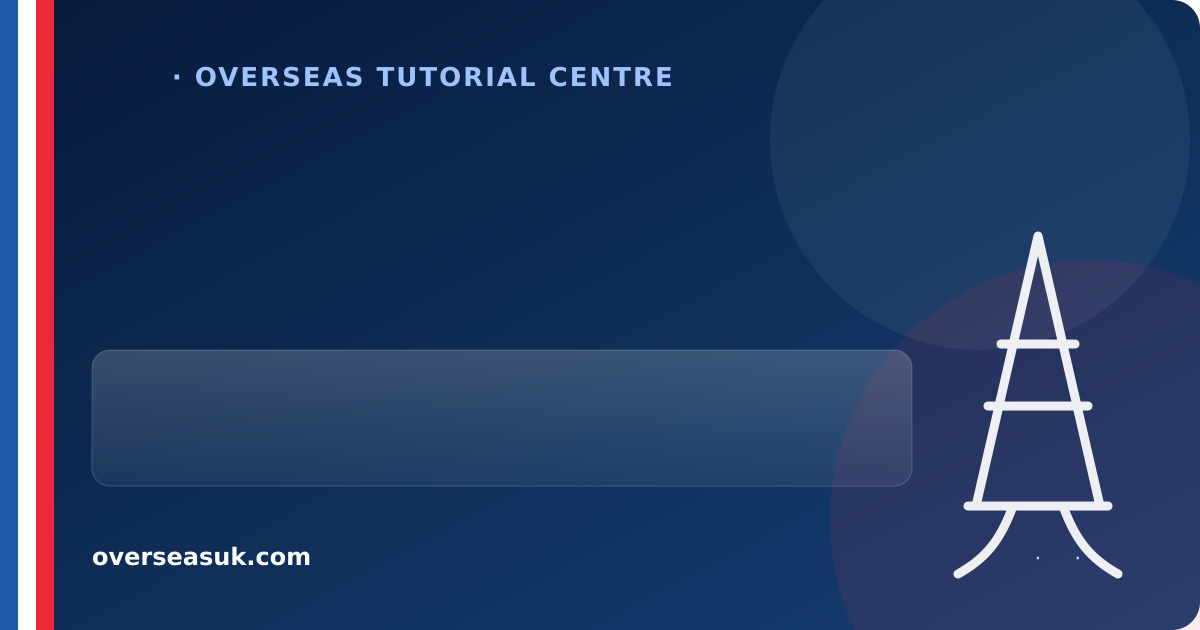
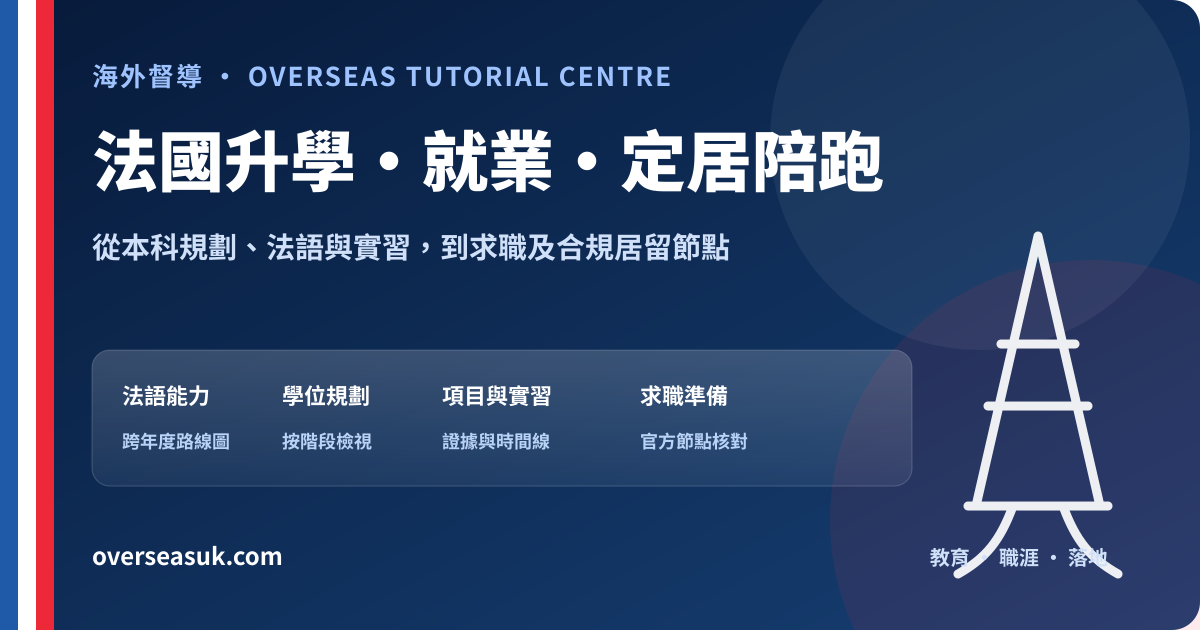
Fix France service cover and card layout

diff --git a/france-study-work-settlement-support/index.html b/france-study-work-settlement-support/index.html
@@ -81,8 +81,8 @@
 <section class="page-hero services-hero"><div class="band"><div class="service-hero-layout"><div><div class="eyebrow">OTC FRANCE · MULTI-YEAR PLANNING DESK</div><h1>France Study, Employment & Settlement Support</h1><h2>Education · Career · Compliant Landing</h2><p class="hero-sub">One staged route linking undergraduate study, French, postgraduate planning, internships, employment preparation and official residence checkpoints.</p></div><aside class="service-hero-panel"><a href="#route"><strong>Four-stage route</strong><span>From foundations to landing</span></a><a href="#process"><strong>Working process</strong><span>Assess, map, execute and review</span></a><a href="#scope"><strong>Scope and fees</strong><span>Confirmed in writing first</span></a><a href="#start"><strong>Start assessment</strong><span>Five background points</span></a></aside></div></div></section>
 <section class="band service-review-strip"><a href="#route"><b>ROUTE</b><strong>Multi-year plan</strong><span>Beyond one application</span></a><a href="#process"><b>COACH</b><strong>Scheduled reviews</strong><span>Adjust by milestone</span></a><a href="#scope"><b>SCOPE</b><strong>Scope first</strong><span>Free triage; coaching quoted</span></a><a href="https://wa.me/447947991572?text=Hello%2C%20I%20would%20like%20an%20initial%20France%20study%2C%20work%20and%20settlement%20route%20assessment.%0ACurrent%20year%20or%20qualification%3A%0AField%20and%20target%20direction%3A%0AFrench%20level%3A%0AExpected%20move%20or%20graduation%20year%3A%0AMost%20urgent%20question%3A"><b>ASK</b><strong>Share background</strong><span>WhatsApp route assessment</span></a></section>
 <section class="band compact-band service-review-body"><div class="section-head compact-head service-review-head"><span>OTC FRANCE</span><strong>A France route designed to evolve</strong><p>Start from where you are, then define the next verifiable milestone.</p></div><div class="service-herald-grid"><main class="service-herald-main" style="min-width:0"><figure class="zh-herald-share-cover" style="margin:0 0 24px"><img src="/assets/social/france-study-work-settlement-service-en-20260916-v1.png?v=20260916-france-service-en-1" width="1200" height="630" alt="France Study, Employment & Settlement Support" style="display:block;width:100%;height:auto" fetchpriority="high"></figure>
-<section id="route"><h2 class="zh-herald-section-head" data-num="01">Four-stage service route</h2><div class="service-situation-grid"><article><b>01</b><strong>Undergraduate foundation</strong><p>Review direction, grades, French and English, projects and exchange choices, then set a multi-year route.</p></article><article><b>02</b><strong>Postgraduate and internships</strong><p>Work backwards from the target sector to courses, institutions, experience, application evidence and deadlines.</p></article><article><b>03</b><strong>Employment preparation</strong><p>Build a France-ready CV, LinkedIn profile, letters, target list, interview communication and application cadence.</p></article><article><b>04</b><strong>Landing and residence checkpoints</strong><p>Map documents, dates and responsibilities to confirm with institutions, employers and official French sources; regulated matters are referred.</p></article></div></section>
-<section id="process"><h2 class="zh-herald-section-head" data-num="02">How the work progresses</h2><ol class="service-route-list"><li><strong>Assess</strong><span>Clarify your background, target year and present bottleneck.</span></li><li><strong>Diagnose</strong><span>Identify language, academic, experience, evidence and timing gaps.</span></li><li><strong>Map</strong><span>Agree the main route, alternatives, quarterly actions and deliverables.</span></li><li><strong>Coach</strong><span>Review progress, documents and changes on the agreed cadence.</span></li><li><strong>Refer</strong><span>Route regulated immigration, legal and tax matters to qualified professionals.</span></li></ol></section>
+<section id="route"><h2 class="zh-herald-section-head" data-num="01">Four-stage service route</h2><div class="service-situation-grid"><a href="#start"><b>Stage 01</b><strong>Undergraduate foundation</strong><span>Review direction, grades, French and English, projects and exchange choices, then set a multi-year route.</span></a><a href="#start"><b>Stage 02</b><strong>Postgraduate and internships</strong><span>Work backwards from the target sector to courses, institutions, experience, application evidence and deadlines.</span></a><a href="#start"><b>Stage 03</b><strong>Employment preparation</strong><span>Build a France-ready CV, LinkedIn profile, letters, target list, interview communication and application cadence.</span></a><a href="#start"><b>Stage 04</b><strong>Landing and residence checkpoints</strong><span>Map documents, dates and responsibilities to confirm with institutions, employers and official French sources; regulated matters are referred.</span></a></div></section>
+<section id="process"><h2 class="zh-herald-section-head" data-num="02">How the work progresses</h2><div class="service-route-list"><a href="#start"><span>Step 1</span><strong>Assess</strong><em>Clarify your background, target year and present bottleneck.</em></a><a href="#start"><span>Step 2</span><strong>Diagnose</strong><em>Identify language, academic, experience, evidence and timing gaps.</em></a><a href="#start"><span>Step 3</span><strong>Map</strong><em>Agree the main route, alternatives, quarterly actions and deliverables.</em></a><a href="#start"><span>Step 4</span><strong>Coach</strong><em>Review progress, documents and changes on the agreed cadence.</em></a><a href="#start"><span>Step 5</span><strong>Refer</strong><em>Route regulated immigration, legal and tax matters to qualified professionals.</em></a></div></section>
 <section id="scope"><h2 class="zh-herald-section-head" data-num="03">Free triage, paid coaching and external costs</h2><p><strong>Free initial triage:</strong> we clarify the immediate issue and identify points to confirm with an official source, institution or employer.</p><p><strong>Ongoing coaching:</strong> duration, meeting cadence, document volume, deliverables, response arrangements and fees are agreed in writing before work starts.</p><p><strong>Third-party costs:</strong> institutions, language tests, certified translation, visa or residence applications, insurance, housing, travel and professional advisers are paid separately.</p><p><strong>Boundaries:</strong> no admission, internship, employment, visa or residence outcome is guaranteed. OTC does not replace French authorities or regulated legal, immigration or tax professionals.</p></section>
 <section><h2 class="zh-herald-section-head" data-num="04">Five points for the first assessment</h2><p>Current year or highest qualification; field and target direction; French level; expected move or graduation year; and the most urgent question. Unknown items may be left blank. Do not send passport or account details at this stage.</p></section>
 <p>Updated 16 September 2026. Institutional, employment and residence requirements change; current official information and case-specific written decisions prevail.</p></main>

diff --git a/zh/france-study-work-settlement-support/index.html b/zh/france-study-work-settlement-support/index.html
@@ -78,8 +78,8 @@
 <section class="page-hero services-hero"><div class="band"><div class="service-hero-layout"><div><div class="eyebrow">OTC FRANCE · 跨年度規劃服務台</div><h1>法國升學・就業・定居陪跑</h1><h2>教育 · 職涯 · 合規落地</h2><p class="hero-sub">把本科、法語、升學、實習、求職與居留節點放進同一張路線圖，按階段推進、定期檢視。</p></div><aside class="service-hero-panel"><a href="#route"><strong>四段路線</strong><span>由能力基礎推進至落地</span></a><a href="#process"><strong>陪跑流程</strong><span>初評、診斷、執行與檢視</span></a><a href="#scope"><strong>費用與邊界</strong><span>開始前書面確認</span></a><a href="#start"><strong>開始初評</strong><span>五項背景即可</span></a></aside></div></div></section>
 <section class="band service-review-strip"><a href="#route"><b>ROUTE</b><strong>跨年度規劃</strong><span>不只處理單一申請</span></a><a href="#process"><b>COACH</b><strong>定期檢視</strong><span>按里程碑調整</span></a><a href="#scope"><b>SCOPE</b><strong>先確認範圍</strong><span>免費分流，陪跑另報價</span></a><a href="https://wa.me/447947991572?text=%E4%BD%A0%E5%A5%BD%EF%BC%8C%E6%88%91%E6%83%B3%E5%81%9A%E6%B3%95%E5%9C%8B%E5%8D%87%E5%AD%B8%E3%80%81%E5%B0%B1%E6%A5%AD%E8%88%87%E5%AE%9A%E5%B1%85%E8%B7%AF%E7%B7%9A%E5%88%9D%E8%A9%95%E3%80%82%0A%E7%9B%AE%E5%89%8D%E5%B9%B4%E7%B4%9A%EF%BC%8F%E5%AD%B8%E6%AD%B7%EF%BC%9A%0A%E5%B0%88%E6%A5%AD%E8%88%87%E7%9B%AE%E6%A8%99%E6%96%B9%E5%90%91%EF%BC%9A%0A%E6%B3%95%E8%AA%9E%E7%A8%8B%E5%BA%A6%EF%BC%9A%0A%E9%A0%90%E8%A8%88%E8%B5%B4%E6%B3%95%EF%BC%8F%E7%95%A2%E6%A5%AD%E5%B9%B4%E4%BB%BD%EF%BC%9A%0A%E6%9C%80%E5%B8%8C%E6%9C%9B%E5%85%88%E8%A7%A3%E6%B1%BA%E7%9A%84%E5%95%8F%E9%A1%8C%EF%BC%9A"><b>ASK</b><strong>提交背景</strong><span>WhatsApp 路線初評</span></a></section>
 <section class="band compact-band service-review-body"><div class="section-head compact-head service-review-head"><span>OTC FRANCE</span><strong>一條能持續更新的法國路線</strong><p>先看目前位置，再安排下一個可驗證的里程碑。</p></div><div class="service-herald-grid"><main class="service-herald-main" style="min-width:0"><figure class="zh-herald-share-cover" style="margin:0 0 24px"><img src="/assets/social/france-study-work-settlement-service-zh-20260916-v1.png?v=20260916-france-service-zh-1" width="1200" height="630" alt="法國升學・就業・定居陪跑" style="display:block;width:100%;height:auto" fetchpriority="high"></figure>
-<section id="route"><h2 class="zh-herald-section-head" data-num="01">四段服務路線</h2><div class="service-situation-grid"><article><b>01</b><strong>本科與能力基礎</strong><p>核對專業方向、成績、法語與英語、項目經歷及交換選擇，建立跨年度目標。</p></article><article><b>02</b><strong>碩士與實習規劃</strong><p>按目標行業倒推課程、院校、實習、作品或研究經歷，以及申請文件與截止日。</p></article><article><b>03</b><strong>求職準備</strong><p>整理法國市場可讀的履歷、LinkedIn、求職信、職位清單、面試表達與投遞節奏。</p></article><article><b>04</b><strong>落地與居留節點</strong><p>建立需要向學校、雇主及法國官方確認的文件、日期與責任清單；受規管事項轉介合資格人士。</p></article></div></section>
-<section id="process"><h2 class="zh-herald-section-head" data-num="02">怎樣推進</h2><ol class="service-route-list"><li><strong>初評</strong><span>整理背景、目標年份與目前卡點。</span></li><li><strong>診斷</strong><span>找出語言、學歷、經歷、文件與時間線缺口。</span></li><li><strong>路線圖</strong><span>確認主路線、備選方案、季度任務與交付物。</span></li><li><strong>陪跑</strong><span>按約定週期檢視進度、文件與新變化。</span></li><li><strong>轉介</strong><span>移民、法律、稅務等受規管事項交由合資格專業人士。</span></li></ol></section>
+<section id="route"><h2 class="zh-herald-section-head" data-num="01">四段服務路線</h2><div class="service-situation-grid"><a href="#start"><b>階段 01</b><strong>本科與能力基礎</strong><span>核對專業方向、成績、法語與英語、項目經歷及交換選擇，建立跨年度目標。</span></a><a href="#start"><b>階段 02</b><strong>碩士與實習規劃</strong><span>按目標行業倒推課程、院校、實習、作品或研究經歷，以及申請文件與截止日。</span></a><a href="#start"><b>階段 03</b><strong>求職準備</strong><span>整理法國市場可讀的履歷、LinkedIn、求職信、職位清單、面試表達與投遞節奏。</span></a><a href="#start"><b>階段 04</b><strong>落地與居留節點</strong><span>建立需要向學校、雇主及法國官方確認的文件、日期與責任清單；受規管事項轉介合資格人士。</span></a></div></section>
+<section id="process"><h2 class="zh-herald-section-head" data-num="02">怎樣推進</h2><div class="service-route-list"><a href="#start"><span>第1步</span><strong>初評</strong><em>整理背景、目標年份與目前卡點。</em></a><a href="#start"><span>第2步</span><strong>診斷</strong><em>找出語言、學歷、經歷、文件與時間線缺口。</em></a><a href="#start"><span>第3步</span><strong>路線圖</strong><em>確認主路線、備選方案、季度任務與交付物。</em></a><a href="#start"><span>第4步</span><strong>陪跑</strong><em>按約定週期檢視進度、文件與新變化。</em></a><a href="#start"><span>第5步</span><strong>轉介</strong><em>移民、法律、稅務等受規管事項交由合資格專業人士。</em></a></div></section>
 <section id="scope"><h2 class="zh-herald-section-head" data-num="03">免費、付費與第三方成本</h2><p><strong>免費初步分流：</strong>了解背景與最急問題，指出要先向官方、學校或雇主確認的事項。</p><p><strong>後續陪跑：</strong>開始前書面確認服務期限、會議頻率、文件數量、交付物、回覆安排與費用。</p><p><strong>第三方費用：</strong>院校、語言考試、翻譯認證、簽證／居留、保險、住宿、交通及專業人士費用由客戶另付。</p><p><strong>服務邊界：</strong>不保證錄取、實習、工作、簽證或居留結果；不代替法國律師、受規管移民專業人士、稅務顧問或政府機關。</p></section>
 <section><h2 class="zh-herald-section-head" data-num="04">先準備五項資料</h2><p>目前年級或最高學歷；專業與目標方向；法語程度；預計赴法或畢業年份；最希望先解決的問題。不確定的內容可留空，初次不用傳護照或帳戶資料。</p></section>
 <p>更新：2026-09-16。院校、就業及居留要求會變動，以當期官方資料和個案書面結果為準。</p></main>
